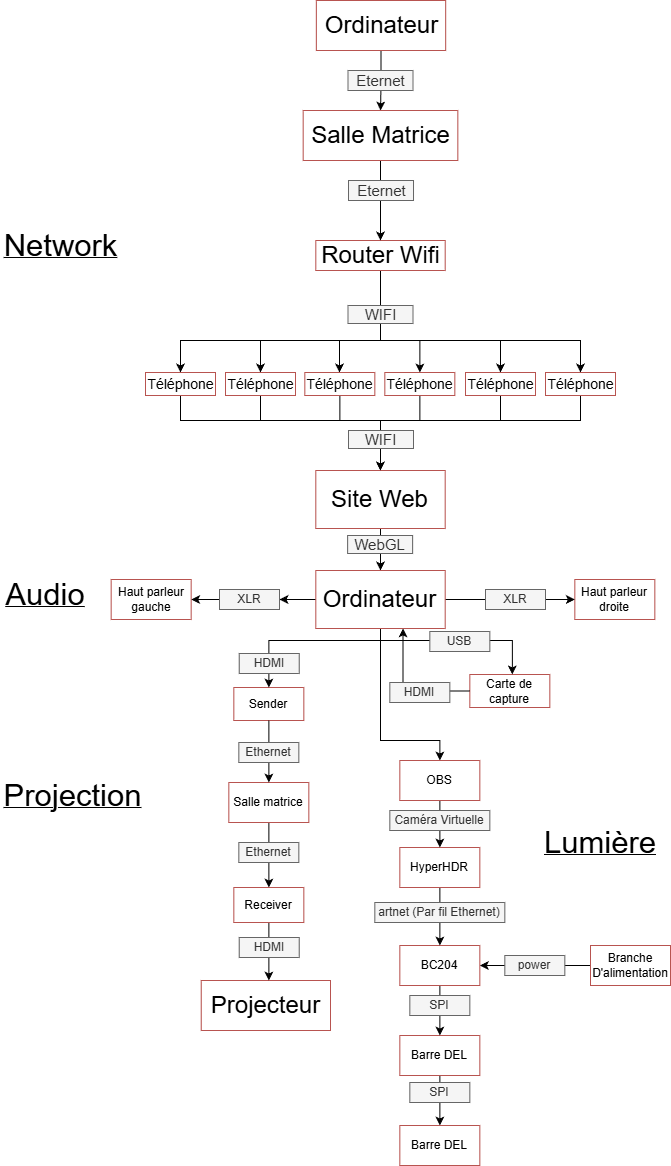
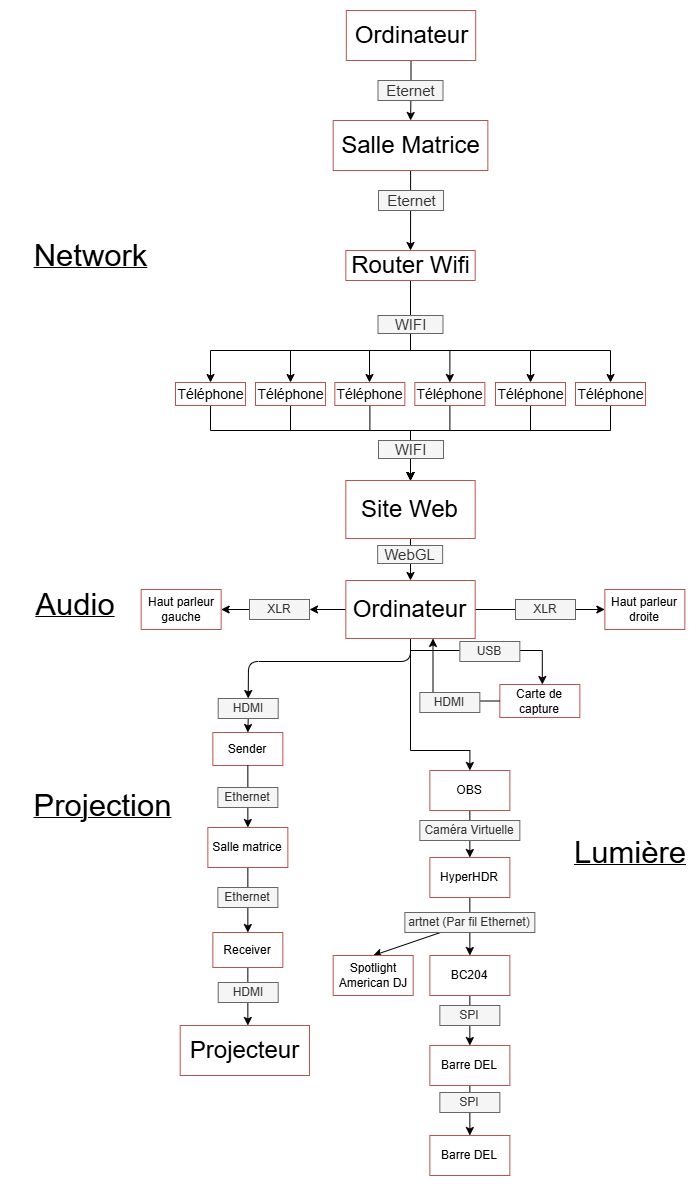
final

diff --git a/maquette/README.md b/maquette/README.md
@@ -6,7 +6,7 @@
 | :------------------------ | :-------------------------------------------------------------------------------------------------------------------------------------------------------------------------------------------------------- | ----------------------------------------------------------------------------------------------------------------------------------------------------------------------------------------------------------------------------: | ------------------------------------------------------------------------------------------------------------------------: | --------------------------------------------------------------: |
 | S'asseoir et scanner | Le joueur s'asseoit et se connecte avec son téléphone grâce à un code QR qu'il va balayer et se connecte au wifi de notre jeu. L'interface de manette sur son téléphone sera afficher dans un navigateur. | Il voit son appareil qui se transforme en manette et voit qu'un nom et une couleur lui est assigné sur son appareil et voit son joueur apparaître dans le jeu avec sa couleur et nom. Quand il est dans le menu, il peut visuellement voir tous les joueurs qui sont présentement dans le jeu. |     Il entend la musique du jeu du menu. Quand un joueur se connecte, un effet sonore se fait entendre pour tout le monde | Ajout d'un joueur dans le jeu et connection wifi pour le joueur |
 | Partir et se déconnecter  | Le joueur part et se déconnecte de son téléphone quand il perd connection du navigateur.                                                                                                                  |                                                                                                                                                               Il voit visuellement dans le menu qu'il n'est plus dans le jeu. |                                Tout le monde entend le son de déconnection d'un joueur. La musique du menu joue toujours. |                                 Retire d'un joueur dans le jeu. |
-| Appuyer sur 'Prêt'       | Le joueur clique sur le bouton Prêt sur son téléphone, quand tous les joueurs sont prêt, commence le tutoriel, quand celui-ci est finit, une petite histoire est montré et ensuite le premier niveau est commencé                                                                                                                                                        |                                                                                                                                   Il voit la scène afficher, avec le projecteur, changer du menu principal au tutoriel et ensuite au premier niveau après l'histoire. | Il entend un bruit SFX de bouton et la musique du menu qui graduellement change à la musique d'ambiance du premier niveau |                              La scène change au premier nouveau |                                                                Il entend un bruit SFX de bouton et la musique du menu. |
+| Appuyer sur 'Prêt'       | Le joueur clique sur le bouton Prêt sur son téléphone, quand tous les joueurs sont prêt, commence l'histoire, quand celui-ci est finit, un petit tutoriel est montré et ensuite le premier niveau est commencé                                                                                                                                                        |                                                                                                                                   Il voit la scène afficher, avec le projecteur, changer du menu principal a la description de l'histoire et ensuite au premier niveau après un petit tutoriel. | Il entend un bruit SFX de bouton et la musique du menu qui graduellement change à la musique d'ambiance du premier niveau |                              La scène change au premier nouveau |                                                                Il entend un bruit SFX de bouton et la musique du menu. |
 
 ## Scène 2
 
@@ -54,7 +54,7 @@
 
 - Multiprise / rallonge électrique – Pour alimenter l’ensemble du système.
 
-- Lumière plafond spotlight
+- Lumière plafond American DJ
 
 - Lumière Baton (2-4): Mettre de la lumière d'ambiance qui change avec une donné en boucle
 
@@ -103,5 +103,5 @@
 | ---------------------- | -------------------------------------------------------------------------------------------------------------------------------------------------------------------------------------------------------- | --------- | --------------- |
 | Pouf gonflable         | [![](bean-bag.webp)](https://www.walmart.ca/en/ip/Boovnll-Bean-Bag-Chair-Soft-Comfortable-Portable-Foldable-Lazy-Sofa-Polyester-Chairs-Adults-Inflatable-Chair-Living-Room-Bedroom-Reading/51GE8UZ5TOCL) | 6         | 275,94$         |
 | Podium code Qr         | [![](podium.jpg)](https://www.wayfair.ca/fr/mobilier/pdp/ebern-designs-presentoir-avec-rangement-chene-noir-122-x-118-x-236-po-c114153473.html)                                                          | 1         | 110 $           |
-| Router                 | ![](router.jpg)                                                                                                                                                                                         | 1         | 160$            |
-| Total                  |                                                                                                                                                                                                          |           | 545,94$         |
+| Fairy Lights                 | ![](led.jpg)                                                                                                                                                                                         | 1         | 18$            |
+| Total                  |                                                                                                                                                                                                          |           | 403.94$        |
